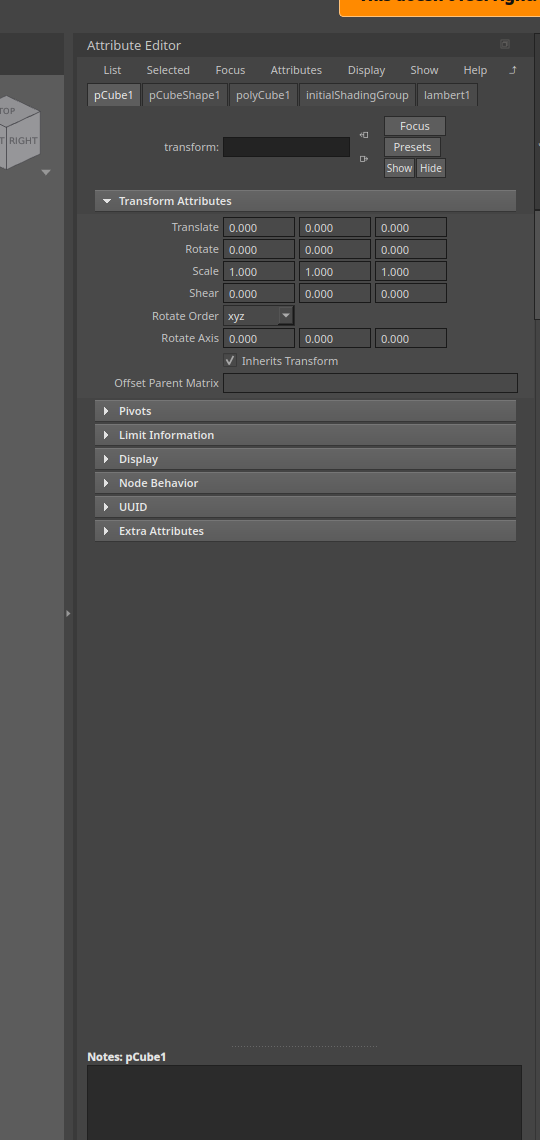
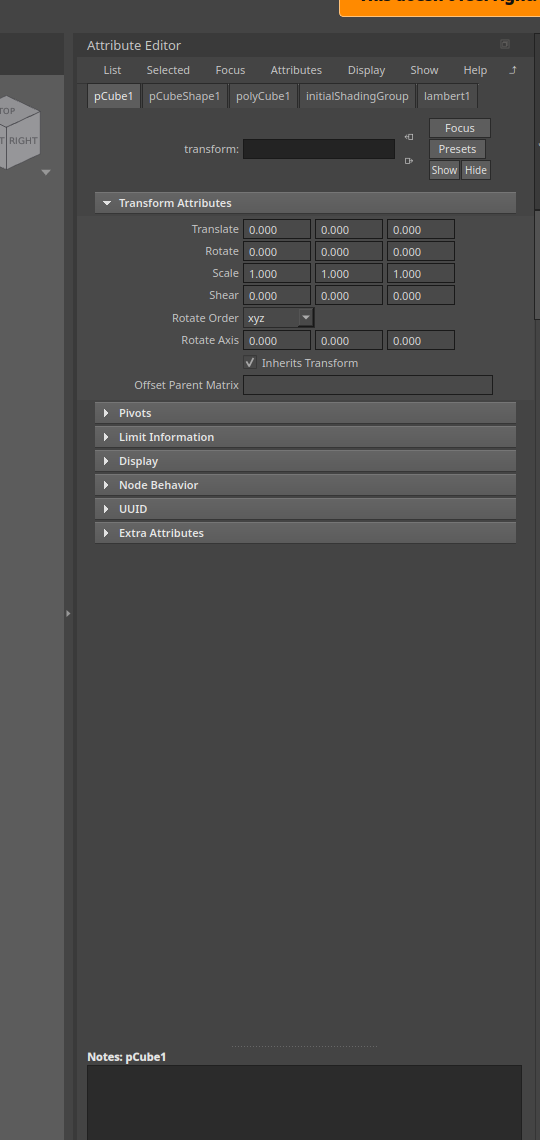
Attribute Editor: the reference's 160 pixel name column, 68 pixel fields and tab order kept across rebuilds

diff --git a/app/src/attreditor.cpp b/app/src/attreditor.cpp
@@ -75,6 +75,12 @@ private:
     bool torn_ = false;
 };
 
+// The order the user has dragged the tabs into, kept while the editor runs.
+QStringList& tab_order() {
+    static QStringList order;
+    return order;
+}
+
 class AeTabWidget : public QTabWidget {
 public:
     explicit AeTabWidget(QWidget* parent = nullptr) : QTabWidget(parent) {}
@@ -464,7 +470,7 @@ QWidget* ranged_field(const QJsonObject& a, double lo, double hi, QWidget* paren
     h->setSpacing(4);
     auto* e = new QLineEdit(type == "int" ? QString::number(a["value"].toInteger()) : fmt3(value), row);
     e->setProperty("plugKey", plug);
-    e->setFixedWidth(54);
+    e->setFixedWidth(68);
     auto* s = new AttrSlider(Qt::Horizontal, row);
     s->setMinimumWidth(8);
     s->setRange(0, 1000);
@@ -527,7 +533,7 @@ QWidget* color_field(const QJsonObject& a, QWidget* parent) {
     h->setContentsMargins(0, 0, 0, 0);
     h->setSpacing(3);
     auto* swatch = new QPushButton(w);
-    swatch->setFixedSize(54, 18);
+    swatch->setFixedSize(40, 18);
     bool stored = a["displayColor"].toBool();
     QJsonArray value = a["value"].toArray();
     QColor shown = stored ? QColor::fromRgbF(value.at(0).toDouble(), value.at(1).toDouble(), value.at(2).toDouble()) : swatch_color(value);
@@ -699,7 +705,7 @@ QWidget* attr_field(const QJsonObject& a, QWidget* parent) {
             auto* e = new QLineEdit(fmt3(v.at(k).toDouble()), w);
             // Three to a row: thin padding, so a value shows whole at the panel's usual width.
             e->setStyleSheet("padding-left: 1px; padding-right: 0px;");
-            e->setMinimumWidth(38);
+            e->setMinimumWidth(34);
             // A locked part takes the locked shade. A driven or output-only part is read-only but is not locked, so it
             // keeps its own look instead of reading as a lock (#212 review).
             const bool locked = a["locked"].toBool() || childLocked.at(k).toBool();
@@ -745,7 +751,7 @@ QWidget* attr_field(const QJsonObject& a, QWidget* parent) {
         h->setContentsMargins(0, 0, 0, 0);
         h->setSpacing(4);
         e->setParent(w);
-        e->setFixedWidth(54);
+        e->setFixedWidth(68);
         h->addWidget(e);
         h->addStretch(1);
         h->addWidget(map_button(a, w));
@@ -773,7 +779,7 @@ QWidget* attr_field(const QJsonObject& a, QWidget* parent) {
 class RowLabel : public QLabel {
 public:
     RowLabel(const QString& text, QWidget* parent) : QLabel(text, parent) {
-        setFixedWidth(140);
+        setFixedWidth(160);
         setToolTip(text);
         setProperty("rowLabel", true);
     }
@@ -801,7 +807,7 @@ void fit_labels(QWidget* body) {
     // By a property: findChildren needs Q_OBJECT on the class it looks for, and newer Qt refuses to build without it.
     QList<QLabel*> labels = body->findChildren<QLabel*>();
     labels.removeIf([](QLabel* l) { return !l->property("rowLabel").toBool(); });
-    int need = 140;
+    int need = 160;
     for (QLabel* l : labels) need = std::max(need, l->fontMetrics().horizontalAdvance(l->text()) + 8);
     need = std::min(need, 240);
     for (QLabel* l : labels) l->setFixedWidth(need);
@@ -1648,7 +1654,7 @@ QWidget* light_header(const QString& type, QWidget* parent) {
     auto* label = new QLabel("Sample", row);
     label->setObjectName("aeRowLabel");
     label->setAlignment(Qt::AlignRight | Qt::AlignVCenter);
-    label->setFixedWidth(140);
+    label->setFixedWidth(160);
     h->addWidget(label);
     QPixmap px(56, 56);
     px.fill(QColor(20, 20, 20));
@@ -1763,7 +1769,7 @@ QWidget* material_header(const QString& type, const QHash<QString, QJsonObject>&
     auto* sampleLabel = new QLabel("Sample", sampleRow);
     sampleLabel->setObjectName("aeRowLabel");
     sampleLabel->setAlignment(Qt::AlignRight | Qt::AlignVCenter);
-    sampleLabel->setFixedWidth(140);
+    sampleLabel->setFixedWidth(160);
     sh->addWidget(sampleLabel);
     QPixmap px(56, 56);
     px.fill(QColor(70, 70, 70));
@@ -1790,7 +1796,7 @@ QWidget* material_header(const QString& type, const QHash<QString, QJsonObject>&
     auto* typeLabel = new QLabel("Type", typeRow);
     typeLabel->setObjectName("aeRowLabel");
     typeLabel->setAlignment(Qt::AlignRight | Qt::AlignVCenter);
-    typeLabel->setFixedWidth(140);
+    typeLabel->setFixedWidth(160);
     th->addWidget(typeLabel);
     auto* combo = new QComboBox(typeRow);
     combo->addItem(names.value(type, type));
@@ -1830,7 +1836,7 @@ QFormLayout* add_section(QVBoxLayout* v, QWidget* parent, const QString& title) 
 }
 
 // The reference's greyed control for a feature Aztek does not have yet: present, and taking no typing.
-QLabel* ae_label(const QString& text, QWidget* parent, int width = 140) {
+QLabel* ae_label(const QString& text, QWidget* parent, int width = 160) {
     auto* l = new QLabel(parent);
     l->setObjectName("aeRowLabel");
     l->setAlignment(Qt::AlignRight | Qt::AlignVCenter);
@@ -1936,7 +1942,7 @@ QWidget* ae_placeholder(const AeRow& r, const QJsonObject& a, QWidget* parent) {
         int count = kind == "color" ? 1 : 3;
         for (int k = 0; k < count; ++k) {
             auto* e = new QLineEdit(w);
-            e->setFixedSize(kind == "color" ? 148 : 72, 20);
+            e->setFixedSize(kind == "color" ? 148 : 68, 20);
             e->setEnabled(false);
             h->addWidget(e);
         }
@@ -1950,7 +1956,7 @@ QWidget* ae_placeholder(const AeRow& r, const QJsonObject& a, QWidget* parent) {
         h->setSpacing(4);
         auto* e = new QLineEdit(w);
         e->setFixedHeight(20);
-        e->setMinimumWidth(270);
+        e->setMinimumWidth(kind == "matrix" ? 250 : 225);
         e->setEnabled(false);
         h->addWidget(e, 1);
         if (kind == "text") {
@@ -1977,7 +1983,7 @@ QWidget* ae_placeholder(const AeRow& r, const QJsonObject& a, QWidget* parent) {
         h->setContentsMargins(0, 0, 0, 0);
         h->setSpacing(4);
         auto* e = new QLineEdit(w);
-        e->setFixedSize(72, 20);
+        e->setFixedSize(68, 20);
         e->setEnabled(false);
         auto* s = new QSlider(Qt::Horizontal, w);
         s->setRange(0, 1000);
@@ -1987,7 +1993,7 @@ QWidget* ae_placeholder(const AeRow& r, const QJsonObject& a, QWidget* parent) {
         return w;
     }
     auto* e = new QLineEdit(parent);
-    e->setFixedSize(72, 20);
+    e->setFixedSize(68, 20);
     e->setEnabled(false);
     return e;
 }
@@ -2026,7 +2032,7 @@ QWidget* ae_field(const AeRow& r, const QJsonObject& a, const QString& style, QW
         h->setSpacing(4);
         auto* e = new QLineEdit(w);
         e->setFixedHeight(20);
-        e->setMinimumWidth(270);
+        e->setMinimumWidth(225);
         if (type == "string") {
             e->setText(a["value"].toString());
             e->setReadOnly(ro);
@@ -2049,18 +2055,18 @@ QWidget* ae_field(const AeRow& r, const QJsonObject& a, const QString& style, QW
     int width = 0;
     if (r.kind == "matrix" || type == "matrix") width = 295;
     else if (r.kind == "combo" || type == "enum") width = r.attr == "rotateOrder" ? 72 : 148;
-    else if (type == "vec3") width = 224;
+    else if (type == "vec3") width = 212;
     else if (r.kind == "text") width = 0;
     else if (type == "float" || type == "int") {
         // Ranged numbers keep their slider, and the slider runs to the end of the value column.
-        width = (a["min"].isDouble() && a["max"].isDouble() && a["max"].toDouble() > a["min"].toDouble()) ? 254 : 72;
-        if (type == "int" && !(a["min"].isDouble() && a["max"].isDouble())) width = 72;
+        width = (a["min"].isDouble() && a["max"].isDouble() && a["max"].toDouble() > a["min"].toDouble()) ? 210 : 68;
+        if (type == "int" && !(a["min"].isDouble() && a["max"].isDouble())) width = 68;
     }
     if (width > 0) {
         if (type == "vec3") {
             field->setFixedWidth(width);
             // Three valued parts a row: each 72 wide, as the reference's fields.
-            for (QLineEdit* e : field->findChildren<QLineEdit*>()) e->setFixedSize(72, 20);
+            for (QLineEdit* e : field->findChildren<QLineEdit*>()) e->setFixedSize(68, 20);
         } else if (type == "enum") {
             field->setFixedWidth(width);
         } else {
@@ -2086,7 +2092,7 @@ QWidget* ae_vec3(const QJsonObject& a, QWidget* parent) {
     int count = a["pair"].toBool() ? 2 : 3;
     for (int k = 0; k < count; ++k) {
         auto* e = new QLineEdit(fmt3(v.at(k).toDouble()), w);
-        e->setFixedSize(72, 20);
+        e->setFixedSize(68, 20);
         const bool locked = a["locked"].toBool() || childLocked.at(k).toBool();
         e->setReadOnly(read_only(a) || locked);
         if (a["childKeyed"].toArray().at(k).toBool()) e->setObjectName("keyedField");
@@ -2326,7 +2332,7 @@ void ae_render_box(QVBoxLayout* v, QWidget* parent, const AeBox& b, const QHash<
         auto* hh = new QHBoxLayout(hw);
         hh->setContentsMargins(2, 0, 12, 0);
         auto* pad = new QWidget(hw);
-        pad->setFixedWidth(140);
+        pad->setFixedWidth(160);
         hh->addWidget(pad);
         hh->addWidget(ae_limit_header(hw));
         cv->addWidget(hw);
@@ -2374,7 +2380,7 @@ void ae_render_rows(QVBoxLayout* v, QWidget* parent, const QList<AeRow>& rows, c
             h->setContentsMargins(2, 0, 12, 0);
             h->setSpacing(4);
             auto* pad = new QWidget(rw);
-            pad->setFixedWidth(140);
+            pad->setFixedWidth(160);
             h->addWidget(pad);
             auto add_check = [&](const QString& name, const QString& text, bool enabled) {
                 QJsonObject at = by.value(name);
@@ -2453,7 +2459,7 @@ void ae_render_rows(QVBoxLayout* v, QWidget* parent, const QList<AeRow>& rows, c
             h->setContentsMargins(2, 0, 12, 0);
             h->setSpacing(4);
             auto* pad = new QWidget(rw);
-            pad->setFixedWidth(140);
+            pad->setFixedWidth(160);
             h->addWidget(pad);
             auto* cb = new QCheckBox(label, rw);
             cb->setChecked(a["value"].toBool());
@@ -2477,7 +2483,7 @@ void ae_render_rows(QVBoxLayout* v, QWidget* parent, const QList<AeRow>& rows, c
             for (const QString& name : {r.attr, secondName}) {
                 QJsonObject at = name.isEmpty() ? QJsonObject() : by.value(name);
                 auto* e = new QLineEdit(rw);
-                e->setFixedSize(72, 20);
+                e->setFixedSize(68, 20);
                 if (!at.isEmpty()) {
                     used.insert(name);
                     if (at["type"].toString() == "vec3") {
@@ -2561,7 +2567,7 @@ void ae_render_rows(QVBoxLayout* v, QWidget* parent, const QList<AeRow>& rows, c
         h->setSpacing(4);
         if (checklike) {
             auto* pad = new QWidget(rowWidget);
-            pad->setFixedWidth(140);
+            pad->setFixedWidth(160);
             h->addWidget(pad);
         } else {
             auto* lab = ae_label(label, rowWidget);
@@ -2882,6 +2888,11 @@ AttributeEditor::AttributeEditor(QWidget* parent, const QString& pinned) : Panel
     auto* tabBar = new AeTabBar(tabs_);
     tabWidget->use_bar(tabBar);
     tabs_->setMovable(true);
+    connect(tabBar, &QTabBar::tabMoved, this, [this](int, int) {
+        QStringList order;
+        for (int i = 0; i < tabs_->count(); ++i) order << tabs_->tabText(i);
+        tab_order() = order;
+    });
     tabBar->tearOff = [this](int index) {
         QWidget* w = index >= 0 ? tabs_->widget(index) : nullptr;
         if (!w) return;
@@ -3026,11 +3037,11 @@ void AttributeEditor::refresh() {
         auto* typeLabel = new QLabel(ae_type_label(node_type) + ":", nameRow);
         typeLabel->setObjectName("aeTypeLabel");
         typeLabel->setAlignment(Qt::AlignRight | Qt::AlignVCenter);
-        typeLabel->setFixedWidth(140);
+        typeLabel->setFixedWidth(160);
         nh->addWidget(typeLabel);
         auto* name = new QLineEdit(nameRow);
         name->setObjectName("aeNameField");
-        name->setFixedSize(127, 20);
+        name->setFixedSize(152, 20);
         name->setText(QString());
         connect(name, &QLineEdit::editingFinished, name, [name, path] {
             if (!name->text().trimmed().isEmpty() && name->text().trimmed() != path.section('|', -1))
@@ -3383,8 +3394,24 @@ void AttributeEditor::refresh() {
         if (t["name"].toString() == focus_tab) focus_index = idx;
     }
     if (select < 0) select = focus_index;
+    // The order the tabs were dragged into, for the tabs still here.
+    if (!tab_order().isEmpty()) {
+        tabs_->blockSignals(true);
+        int at = 0;
+        for (const QString& name : tab_order()) {
+            for (int i = at; i < tabs_->count(); ++i)
+                if (tabs_->tabText(i) == name) {
+                    tabs_->tabBar()->moveTab(i, at++);
+                    break;
+                }
+        }
+        for (int i = 0; i < tabs_->count(); ++i)
+            if (tabs_->tabText(i) == keep) select = i;
+            else if (tabs_->tabText(i) == focus_tab) focus_index = i;
+        if (select < 0) select = focus_index;
+        tabs_->blockSignals(false);
+    }
     tabs_->setCurrentIndex(select);
-    tabs_->blockSignals(false);
     // Nothing selected: the reference's own message in the panel.
     if (tabs_->count() == 0) {
         tabs_->hide();
